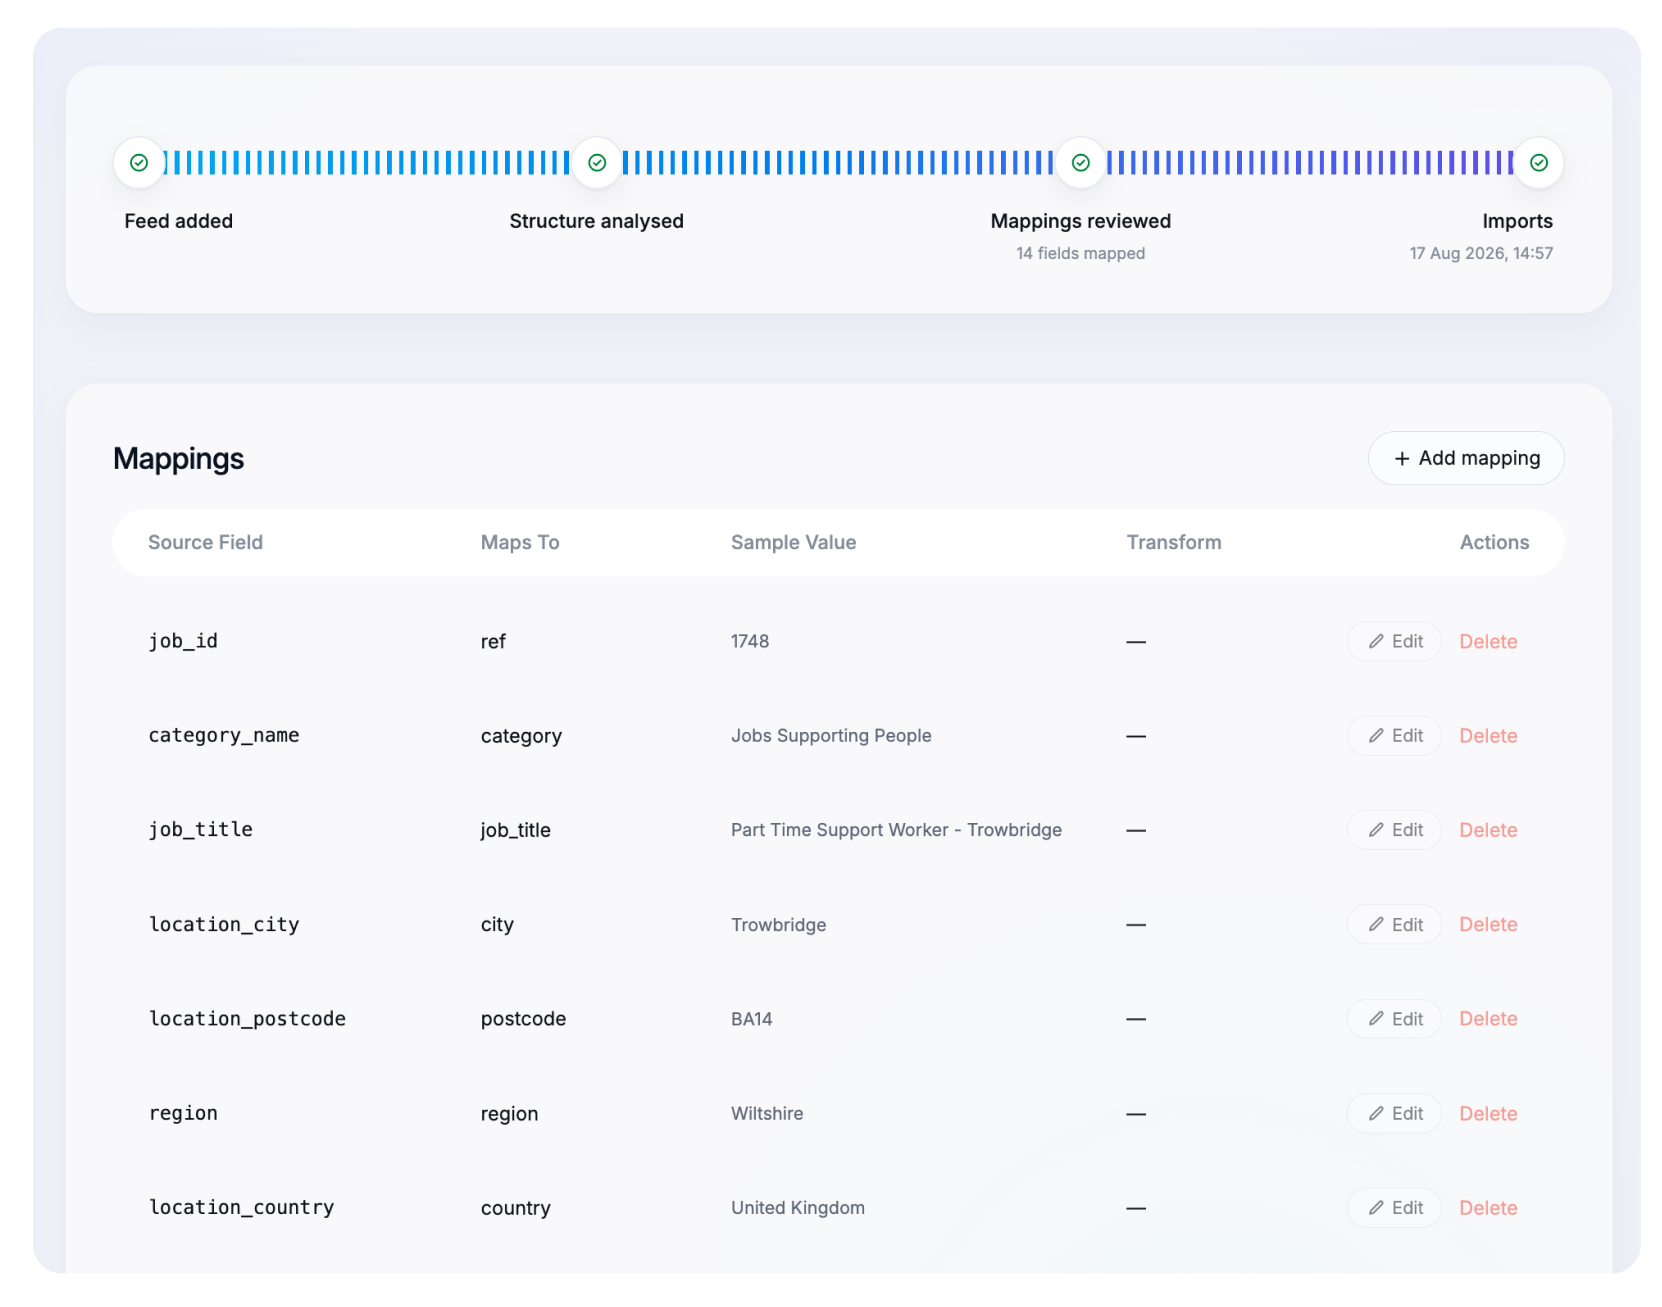
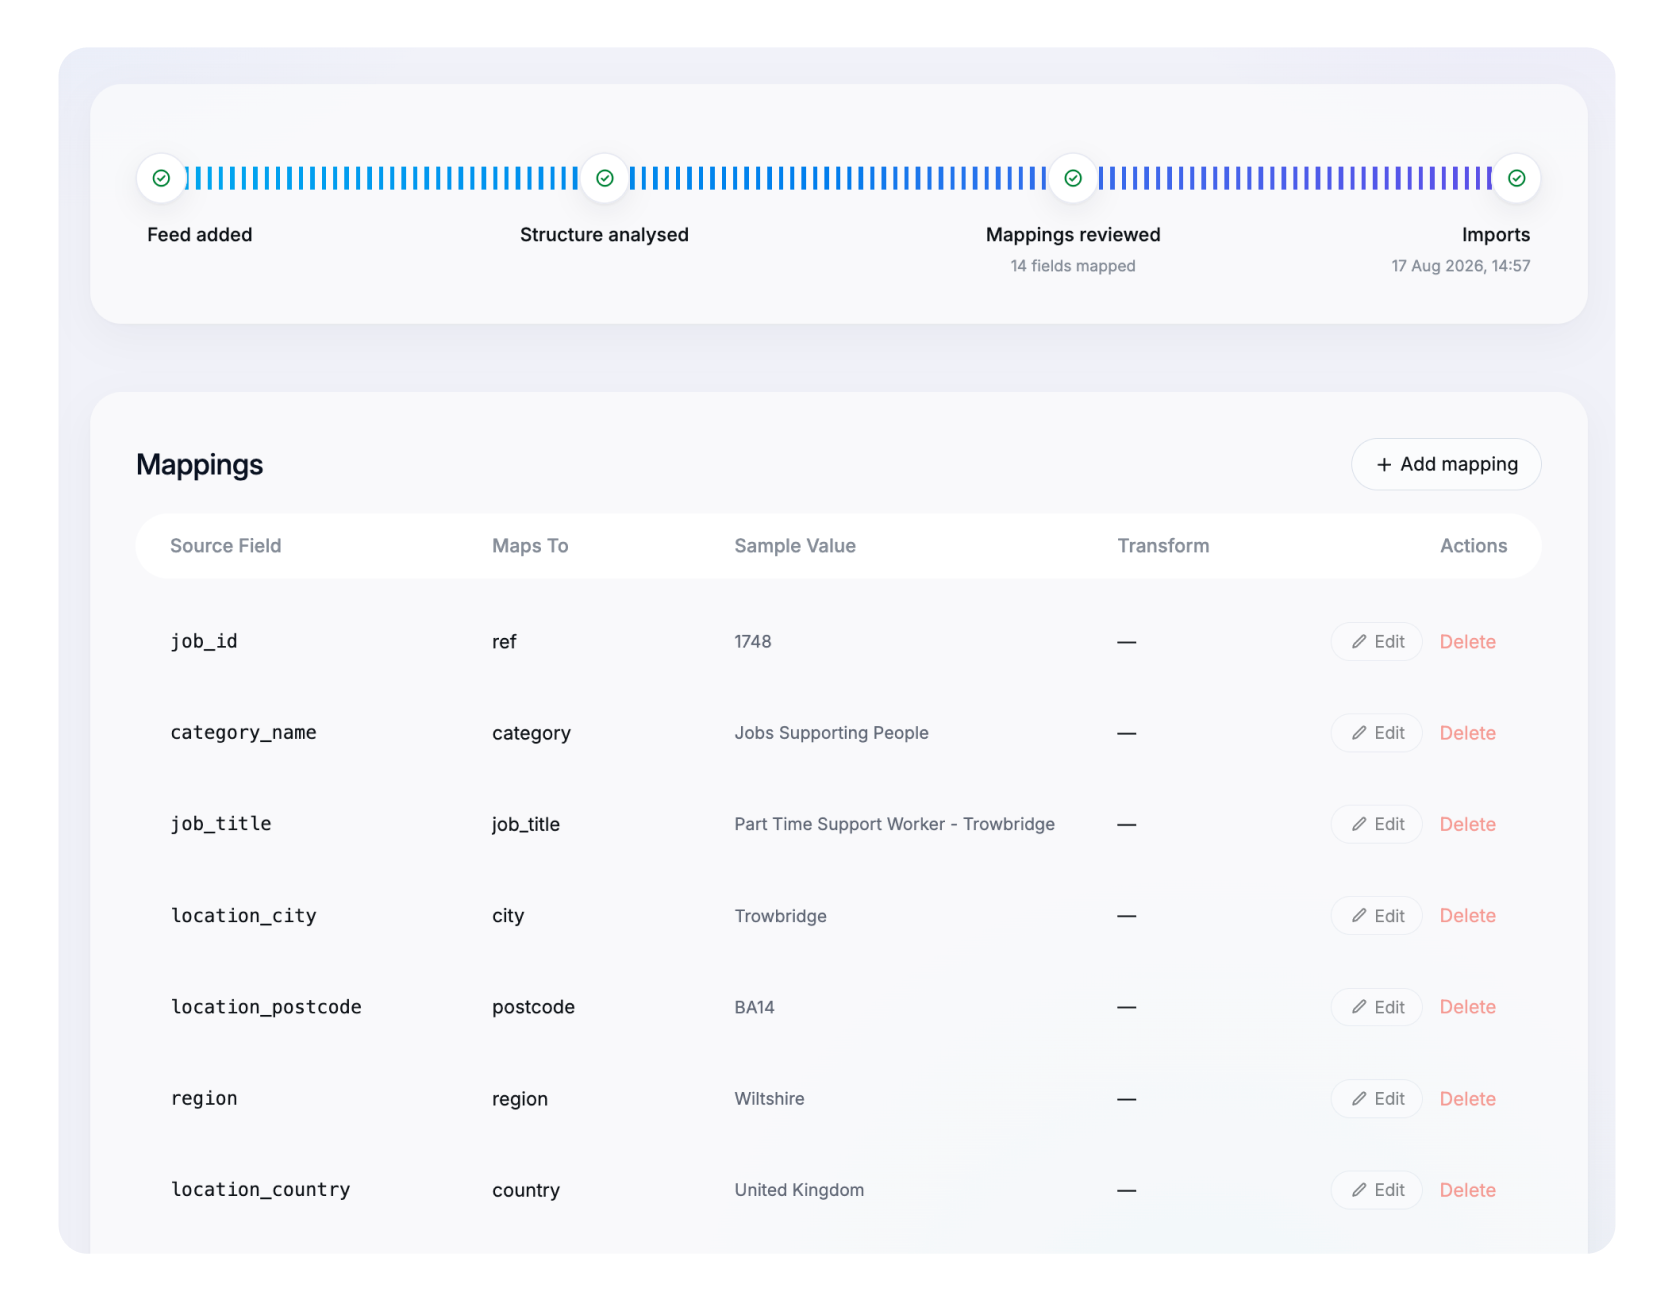
Platform lead column: picture card on Blush deep, copy card beneath
The copy no longer lives inside the picture card. The shot gets its own
card on ground 13, and the copy sits under it as a quiet grey card of the
same family as the three on the right — so the picture card is surrounded
by grey ones rather than swallowing the copy, which is the reference's
arrangement.

Verified by geometry rather than by eye: image card ground resolves to
#3d1730, the copy card sits below it, and its fill matches the right-hand
three exactly at #eef0f5.

diff --git a/src/views/site/platform.tsx b/src/views/site/platform.tsx
@@ -61,16 +61,14 @@ const FeatureBento = () => (
           />
 
           <div className="mt-16 grid grid-cols-1 gap-10 lg:grid-cols-[1.15fr_0.85fr]">
-            <Reveal variant="rise">
-              <article
-                className="card-vivid flex h-full flex-col rounded-panel p-8 lg:p-10"
-                data-hue="brand"
-              >
-                <h3 className="display text-h3">{featureBento.lead.title}</h3>
-                <p className="mt-6 max-w-[34rem] text-body leading-[1.6] text-ink-body">
-                  {featureBento.lead.body}
-                </p>
-                <div className="mt-10">
+            {/* Left column mirrors the right: the shot gets its own card on a
+                deep ground, and the copy sits UNDER it as a quiet card of the
+                same family. The picture card is then surrounded by grey ones
+                rather than swallowing the copy, which is the reference's
+                arrangement. */}
+            <div className="grid content-start gap-10">
+              <Reveal variant="rise">
+                <div className="grain bg-13 rounded-panel p-8 lg:p-10">
                   <ScreenCard
                     ground="none"
                     chrome={false}
@@ -80,8 +78,17 @@ const FeatureBento = () => (
                     ratio="1662 / 1307"
                   />
                 </div>
-              </article>
-            </Reveal>
+              </Reveal>
+
+              <Reveal variant="up" delay={90}>
+                <article className="card-quiet rounded-panel p-8 lg:p-10">
+                  <h3 className="display text-h4">{featureBento.lead.title}</h3>
+                  <p className="mt-4 text-body leading-[1.6] text-ink-body">
+                    {featureBento.lead.body}
+                  </p>
+                </article>
+              </Reveal>
+            </div>
 
             <div className="grid grid-cols-1 gap-10">
               {featureBento.items.map((item, i) => (
